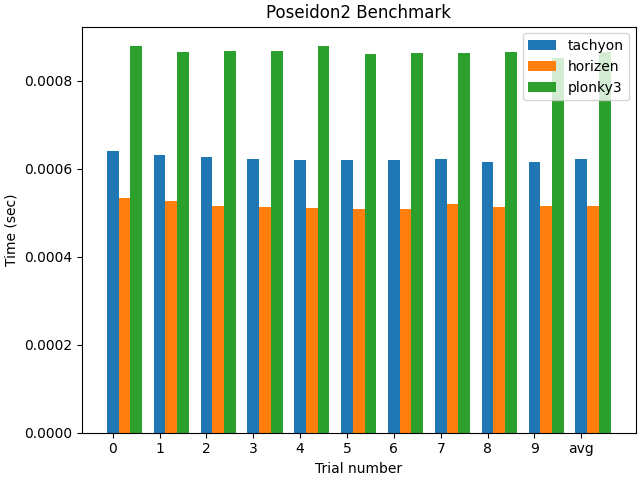
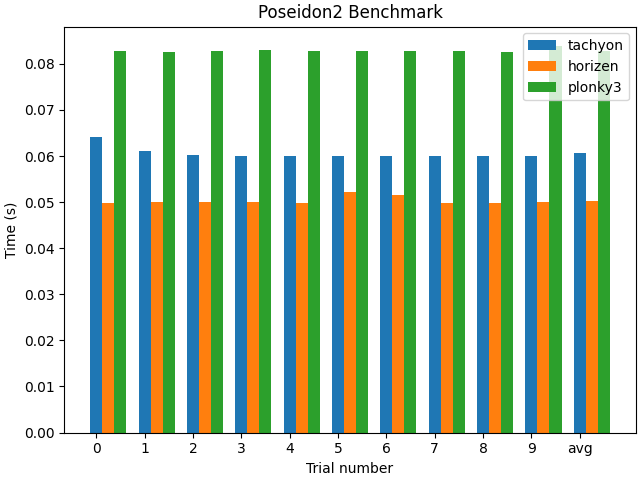
docs(benchmark): update poseidon2 benchmarks

diff --git a/benchmark/poseidon2/README.md b/benchmark/poseidon2/README.md
@@ -15,7 +15,7 @@ CPU Caches:
   L2 Unified 4096 KiB (x12)
 ```
 
-Note that Poseidon2 runs 100x per test due to some time results being too small when running a single iteration.
+Note that Poseidon2 runs 10000x per test due to some time results being too small when running a single iteration.
 
 ## BN254
 
@@ -25,37 +25,37 @@ bazel run -c opt --//:has_openmp --//:has_rtti --//:has_matplotlib //benchmark/p
 
 ### On Intel i9-13900K
 
-| Trial Number | Tachyon   | Horizen       | Plonky3   |
-| :----------- | --------- | ------------- | --------- |
-| 0            | 0.000788  | **0.000534**  | 0.000876  |
-| 1            | 0.000628  | **0.000585**  | 0.00087   |
-| 2            | 0.000624  | **0.000517**  | 0.000865  |
-| 3            | 0.000622  | **0.000513**  | 0.000866  |
-| 4            | 0.000634  | **0.000603**  | 0.000861  |
-| 5            | 0.000628  | **0.000512**  | 0.001002  |
-| 6            | 0.000618  | **0.00051**   | 0.000853  |
-| 7            | 0.000616  | **0.000553**  | 0.000852  |
-| 8            | 0.0007    | **0.000693**  | 0.000873  |
-| 9            | 0.000614  | **0.000525**  | 0.000937  |
-| avg          | 0.0006472 | **0.0005545** | 0.0008855 |
+| Trial Number | Tachyon  | Horizen      | Plonky3  |
+| :----------- | -------- | ------------ | -------- |
+| 0            | 0.06417  | **0.049875** | 0.082714 |
+| 1            | 0.061176 | **0.049937** | 0.082634 |
+| 2            | 0.060154 | **0.04997**  | 0.082722 |
+| 3            | 0.060016 | **0.049925** | 0.082925 |
+| 4            | 0.060068 | **0.049902** | 0.082724 |
+| 5            | 0.060079 | **0.052291** | 0.082722 |
+| 6            | 0.060046 | **0.051501** | 0.08271  |
+| 7            | 0.06008  | **0.049871** | 0.082694 |
+| 8            | 0.06005  | **0.049768** | 0.082677 |
+| 9            | 0.060036 | **0.049995** | 0.083914 |
+| avg          | 0.060587 | **0.050303** | 0.082843 |
 
 ![image](/benchmark/poseidon2/poseidon2_benchmark_bn254_ubuntu_i9.png)
 
 ### On Mac M3 Pro
 
-| Trial Number | Tachyon   | Horizen       | Plonky3   |
-| :----------- | --------- | ------------- | --------- |
-| 0            | 0.001053  | **0.000816**  | 0.001186  |
-| 1            | 0.001033  | **0.00076**   | 0.001177  |
-| 2            | 0.001019  | **0.000726**  | 0.001157  |
-| 3            | 0.001012  | **0.000712**  | 0.001172  |
-| 4            | 0.001007  | **0.000691**  | 0.001152  |
-| 5            | 0.001023  | **0.000684**  | 0.001131  |
-| 6            | 0.001051  | **0.000682**  | 0.001123  |
-| 7            | 0.001005  | **0.000678**  | 0.001116  |
-| 8            | 0.000996  | **0.000687**  | 0.001118  |
-| 9            | 0.001003  | **0.00068**   | 0.001127  |
-| avg          | 0.0010202 | **0.0007116** | 0.0011459 |
+| Trial Number | Tachyon  | Horizen      | Plonky3  |
+| :----------- | -------- | ------------ | -------- |
+| 0            | 0.073586 | **0.055299** | 0.082223 |
+| 1            | 0.073077 | **0.055153** | 0.082353 |
+| 2            | 0.072825 | **0.055762** | 0.082113 |
+| 3            | 0.072752 | **0.054881** | 0.082102 |
+| 4            | 0.072827 | **0.055061** | 0.082143 |
+| 5            | 0.072827 | **0.054988** | 0.082222 |
+| 6            | 0.072862 | **0.05494**  | 0.082222 |
+| 7            | 0.072745 | **0.055217** | 0.082189 |
+| 8            | 0.0729   | **0.054908** | 0.082151 |
+| 9            | 0.072922 | **0.055135** | 0.082084 |
+| avg          | 0.072932 | **0.055134** | 0.08218  |
 
 ![image](/benchmark/poseidon2/poseidon2_benchmark_bn254_mac_m3.png)
 
@@ -71,37 +71,37 @@ bazel run -c opt --//:has_openmp --//:has_rtti --//:has_matplotlib //benchmark/p
 
 #### On Intel i9-13900K
 
-| Trial Number | Tachyon       | Horizen   |
-| :----------- | ------------- | --------- |
-| 0            | **0.000127**  | 0.000381  |
-| 1            | **0.000126**  | 0.00036   |
-| 2            | **0.000125**  | 0.00037   |
-| 3            | **0.000125**  | 0.000356  |
-| 4            | **0.000125**  | 0.000354  |
-| 5            | **0.000125**  | 0.000354  |
-| 6            | **0.000125**  | 0.000354  |
-| 7            | **0.000125**  | 0.00036   |
-| 8            | **0.000125**  | 0.000359  |
-| 9            | **0.000125**  | 0.000353  |
-| avg          | **0.0001253** | 0.0003601 |
+| Trial Number | Tachyon      | Horizen  |
+| :----------- | ------------ | -------- |
+| 0            | **0.012201** | 0.036443 |
+| 1            | **0.012022** | 0.035775 |
+| 2            | **0.011884** | 0.034381 |
+| 3            | **0.011955** | 0.034372 |
+| 4            | **0.011902** | 0.034503 |
+| 5            | **0.011901** | 0.034408 |
+| 6            | **0.011873** | 0.034462 |
+| 7            | **0.011807** | 0.034393 |
+| 8            | **0.011835** | 0.034304 |
+| 9            | **0.011794** | 0.034446 |
+| avg          | **0.011917** | 0.034748 |
 
 ![image](/benchmark/poseidon2/poseidon2_benchmark_baby_bear_horizen_ubuntu_i9.png)
 
 #### On Mac M3 Pro
 
-| Trial Number | Tachyon       | Horizen   |
-| :----------- | ------------- | --------- |
-| 0            | **0.000191**  | 0.000203  |
-| 1            | **0.000191**  | 0.0002    |
-| 2            | **0.000189**  | 0.0002    |
-| 3            | **0.000188**  | 0.0002    |
-| 4            | **0.000194**  | 0.000199  |
-| 5            | **0.000188**  | 0.000199  |
-| 6            | **0.000189**  | 0.000199  |
-| 7            | **0.000189**  | 0.000199  |
-| 8            | **0.000188**  | 0.0002    |
-| 9            | **0.000188**  | 0.000199  |
-| avg          | **0.0001895** | 0.0001998 |
+| Trial Number | Tachyon      | Horizen  |
+| :----------- | ------------ | -------- |
+| 0            | **0.011549** | 0.013957 |
+| 1            | **0.01148**  | 0.014097 |
+| 2            | **0.011512** | 0.01411  |
+| 3            | **0.011383** | 0.013999 |
+| 4            | **0.011461** | 0.014056 |
+| 5            | **0.011371** | 0.014166 |
+| 6            | **0.011386** | 0.014089 |
+| 7            | **0.011587** | 0.014151 |
+| 8            | **0.01141**  | 0.014135 |
+| 9            | **0.011608** | 0.01411  |
+| avg          | **0.011474** | 0.014087 |
 
 ![image](/benchmark/poseidon2/poseidon2_benchmark_baby_bear_horizen_mac_m3.png)
 
@@ -113,36 +113,36 @@ bazel run -c opt --//:has_openmp --//:has_rtti --//:has_matplotlib //benchmark/p
 
 #### On Intel i9-13900K
 
-| Trial Number | Tachyon   | Plonky3      |
-| :----------- | --------- | ------------ |
-| 0            | 0.000112  | **6.6e-05**  |
-| 1            | 0.000111  | **6.5e-05**  |
-| 2            | 0.000111  | **6.6e-05**  |
-| 3            | 0.000111  | **6.6e-05**  |
-| 4            | 0.00011   | **6.6e-05**  |
-| 5            | 0.000116  | **6.6e-05**  |
-| 6            | 0.00011   | **6.5e-05**  |
-| 7            | 0.000109  | **6.6e-05**  |
-| 8            | 0.00011   | **6.6e-05**  |
-| 9            | 0.000109  | **6.5e-05**  |
-| avg          | 0.0001109 | **6.57e-05** |
+| Trial Number | Tachyon  | Plonky3      |
+| :----------- | -------- | ------------ |
+| 0            | 0.010727 | **0.006418** |
+| 1            | 0.01039  | **0.006261** |
+| 2            | 0.010394 | **0.006259** |
+| 3            | 0.010416 | **0.006262** |
+| 4            | 0.010356 | **0.006226** |
+| 5            | 0.010302 | **0.006227** |
+| 6            | 0.010302 | **0.006235** |
+| 7            | 0.010301 | **0.006424** |
+| 8            | 0.010116 | **0.006304** |
+| 9            | 0.009905 | **0.006233** |
+| avg          | 0.01032  | **0.006284** |
 
 ![image](/benchmark/poseidon2/poseidon2_benchmark_baby_bear_plonky3_ubuntu_i9.png)
 
 #### On Mac M3 Pro
 
-| Trial Number | Tachyon   | Plonky3       |
-| :----------- | --------- | ------------- |
-| 0            | 0.000169  | **0.000106**  |
-| 1            | 0.000167  | **0.000105**  |
-| 2            | 0.000166  | **0.000105**  |
-| 3            | 0.000169  | **0.000105**  |
-| 4            | 0.000167  | **0.000105**  |
-| 5            | 0.00017   | **0.000105**  |
-| 6            | 0.000168  | **0.000105**  |
-| 7            | 0.000167  | **0.000105**  |
-| 8            | 0.000168  | **0.000105**  |
-| 9            | 0.000168  | **0.000105**  |
-| avg          | 0.0001679 | **0.0001051** |
+| Trial Number | Tachyon  | Plonky3      |
+| :----------- | -------- | ------------ |
+| 0            | 0.009962 | **0.007355** |
+| 1            | 0.009939 | **0.007373** |
+| 2            | 0.009851 | **0.007431** |
+| 3            | 0.009943 | **0.007453** |
+| 4            | 0.009853 | **0.007399** |
+| 5            | 0.009826 | **0.007459** |
+| 6            | 0.009825 | **0.007385** |
+| 7            | 0.009884 | **0.007389** |
+| 8            | 0.009819 | **0.007403** |
+| 9            | 0.009937 | **0.007353** |
+| avg          | 0.009883 | **0.0074**   |
 
-![image](/benchmark/poseidon2/poseidon2_benchmark_baby_bear_plonky3_mac_m3.png)****
+![image](/benchmark/poseidon2/poseidon2_benchmark_baby_bear_plonky3_mac_m3.png)\*\*\*\*
